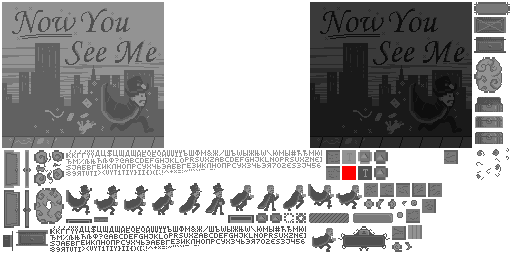
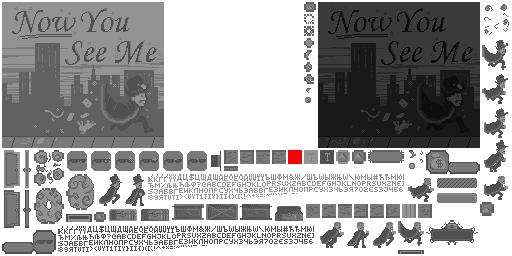
New gui stuff

Changed region(s): [[0.0, 0.0, 1.0, 1.0]]

diff --git a/Assets/Resources/Scripts/Player/PlayerGUI.cs b/Assets/Resources/Scripts/Player/PlayerGUI.cs
@@ -7,49 +7,29 @@ using UnityEngine;
 public class PlayerGUI : FCamObject
 {
     FSprite cashBG;
+    FSprite panacheBG;
     ShadowLabel cashCounter;
-    ShadowLabel cashLeftToAddCounter;
     ShadowLabel panacheCounter;
-    ShadowLabel panacheLeftToAddCounter;
     FSprite vanishBarBG;
     FWipeSprite markCounter;
     FSprite markMedallion;
     Player p;
 
-    float guiSideMargin = 5;
+    float guiSideMargin = 4;
     float textVertMargin = 10;
 
     public PlayerGUI()
     {
-        cashBG = new FSprite("tilemap_02");
-        cashBG.width = Futile.screen.width;
-        cashBG.height = cashBG.height * 2;
-        
+        cashBG = new FSprite("moneyBar_01");
+        cashBG.x = -Futile.screen.halfWidth + cashBG.width / 2 + guiSideMargin;
+        cashBG.y = Futile.screen.halfHeight - cashBG.height / 2 - guiSideMargin;
         this.AddChild(cashBG);
 
 
         cashCounter = new ShadowLabel("$0");
         cashCounter.anchorX = 1;
         this.AddChild(cashCounter);
-        cashCounter.SetPosition(new Vector2(-Futile.screen.halfWidth / 2, Futile.screen.halfHeight - cashCounter.textRect.height/2 - guiSideMargin));
-
-        cashLeftToAddCounter = new ShadowLabel("+0");
-        cashLeftToAddCounter.anchorX = 1;
-        this.AddChild(cashLeftToAddCounter);
-        cashLeftToAddCounter.SetPosition(new Vector2(-Futile.screen.halfWidth / 2, Futile.screen.halfHeight - cashCounter.textRect.height / 2 - guiSideMargin - textVertMargin));
-        cashLeftToAddCounter.isVisible = false;
-        cashBG.y = (cashCounter.y + cashLeftToAddCounter.y)/2;
-
-        panacheCounter = new ShadowLabel("0");
-        panacheCounter.anchorX = 0;
-        this.AddChild(panacheCounter);
-        panacheCounter.SetPosition(new Vector2(Futile.screen.halfWidth / 2, Futile.screen.halfHeight - cashCounter.textRect.height / 2 - guiSideMargin));
-
-        panacheLeftToAddCounter = new ShadowLabel("+0");
-        panacheLeftToAddCounter.anchorX = 0;
-        this.AddChild(panacheLeftToAddCounter);
-        panacheLeftToAddCounter.SetPosition(new Vector2(Futile.screen.halfWidth / 2, Futile.screen.halfHeight - cashCounter.textRect.height / 2 - guiSideMargin - textVertMargin));
-        panacheLeftToAddCounter.isVisible = false;
+        cashCounter.SetPosition(cashBG.GetPosition() + new Vector2(22, - 5));
 
         vanishBarBG = new FSprite("vanishBar_01");
         markCounter = new FWipeSprite("vanishBar_02");
@@ -58,12 +38,28 @@ public class PlayerGUI : FCamObject
         this.AddChild(vanishBarBG);
         this.AddChild(markCounter);
 
+        panacheBG = new FSprite("panacheBar_01");
+        panacheBG.x = Futile.screen.halfWidth - panacheBG.width / 2 - guiSideMargin;
+        panacheBG.y = Futile.screen.halfHeight - panacheBG.height / 2 - guiSideMargin;
+        this.AddChild(panacheBG);
+
+        FAnimatedSprite panacheAnim = new FAnimatedSprite("panacheBar");
+        panacheAnim.addAnimation(new FAnimation("idle", new int[] { 1, 2, 3, 4, 5, 6, 7 }, 100, true));
+        panacheAnim.play("idle");
+        panacheAnim.SetPosition(panacheBG.GetPosition());
+        this.AddChild(panacheAnim);
+
+        panacheCounter = new ShadowLabel("0");
+        panacheCounter.anchorX = 0;
+        panacheCounter.SetPosition(panacheBG.GetPosition() + new Vector2(-22, -5));
+        this.AddChild(panacheCounter);
+
     }
 
     BaseScreen currentScreen;
     public void endLevel(string nextLevel)
     {
-        currentScreen = new LevelEnd(nextLevel, p.cashCounter.value + p.cashCounter.valueLeftToAdd, p.panacheCounter.value + p.panacheCounter.valueLeftToAdd);
+        currentScreen = new LevelEnd(nextLevel, p.cashCounter.actualValue, p.panacheCounter.actualValue);
         this.AddChild(currentScreen);
         C.isTransitioning = true;
         
@@ -88,13 +84,9 @@ public class PlayerGUI : FCamObject
         }
         if (p == null)
             return;
-        cashCounter.text = "$ " + p.cashCounter.value.ToString();
-        cashLeftToAddCounter.text = (p.cashCounter.valueLeftToAdd >= 0 ? "+" : "-") + p.cashCounter.valueLeftToAdd;
-        cashLeftToAddCounter.isVisible = p.cashCounter.valueLeftToAdd != 0;
-
+        cashCounter.text = "$" + p.cashCounter.value.ToString();
         panacheCounter .text = p.panacheCounter.value.ToString();
-        panacheLeftToAddCounter.text = (p.panacheCounter.valueLeftToAdd >= 0 ? "+" : "-") + p.panacheCounter.valueLeftToAdd;
-        panacheLeftToAddCounter.isVisible = p.panacheCounter.valueLeftToAdd != 0;
+      
 
         markCounter.wipeLeftAmount = p.GetVanishPercent();
     }

diff --git a/Assets/Resources/Scripts/Player/GUICounter.cs b/Assets/Resources/Scripts/Player/GUICounter.cs
@@ -7,48 +7,26 @@ using UnityEngine;
 // This class is used to count cash and panache
 public class GUICounter
 {
-    public int value = 0;
-    public int valueLeftToAdd = 0;
+    public int actualValue = 0;
+    public int value { get; set; }
     private float count = 0;
-    private const float countMax = .005f;
+    private const float addTime = 1.0f;
     public GUICounter()
     {
-        Futile.instance.SignalUpdate += Update;
+        
     }
     public void addAmount(int valueToAdd)
     {
-        valueLeftToAdd += valueToAdd;
-    }
-    private void Update()
-    {
-        if (valueLeftToAdd > 0)
-        {
-            while (count > countMax)
-            {
-                count -= countMax;
-                if (valueLeftToAdd != 0)
-                {
-                    if (valueLeftToAdd > 0)
-                    {
-                        value++;
-                        valueLeftToAdd--;
-                    }
-                    else
-                    {
-                        //Subtract cash
-                    }
-                }
-            }
-            count += Time.deltaTime;
-        }
-        else
-            count = 0;
+        actualValue += valueToAdd;
+        Go.killAllTweensWithTarget(this);
+        Go.to(this, addTime, new TweenConfig().intProp("value", actualValue));
     }
 
     internal void reset()
     {
         value = 0;
-        valueLeftToAdd = 0;
+        actualValue = 0;
+        Go.killAllTweensWithTarget(this);
     }
 }
 

diff --git a/Assets/Resources/Scripts/C.cs b/Assets/Resources/Scripts/C.cs
@@ -6,7 +6,7 @@ using UnityEngine;
 
 public class C
 {
-    public const string versionNumber = "v0.1.5";
+    public const string versionNumber = "v0.2";
 
     public static float sceneTransitionTime = 1.5f;
     public static bool isSpawning = false;
